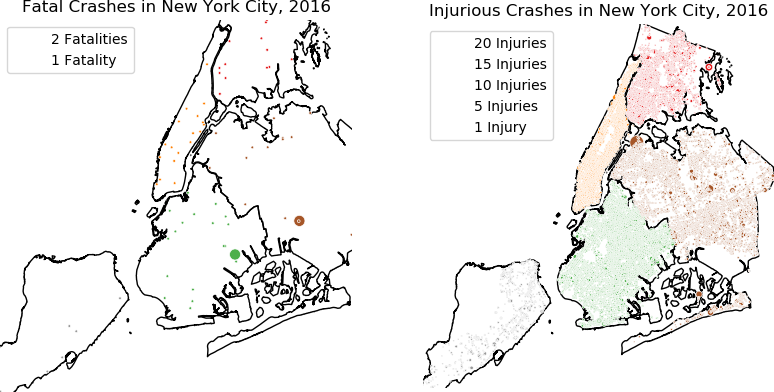
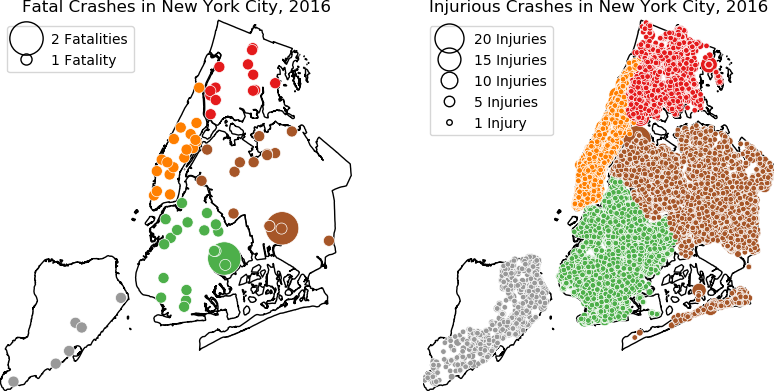
Update example.

diff --git a/docs/examples/nyc-collisions-map.py b/docs/examples/nyc-collisions-map.py
@@ -14,29 +14,31 @@ proj = projection=gcrs.AlbersEqualArea(central_latitude=40.7128, central_longitu
 ax1 = plt.subplot(121, projection=proj)
 ax2 = plt.subplot(122, projection=proj)
 
-gplt.polyplot(nyc_boroughs, ax=ax1, projection=proj)
-gplt.pointplot(
-    nyc_fatal_collisions,
+ax1 = gplt.pointplot(
+    nyc_fatal_collisions, projection=proj,
     hue='BOROUGH', cmap='Set1',
     edgecolor='white', linewidth=0.5,
-    scale='NUMBER OF PERSONS KILLED', limits=(2, 8),
-    legend=True, legend_var='scale', legend_kwargs={'loc': 'upper left'},
+    scale='NUMBER OF PERSONS KILLED', limits=(8, 24),
+    legend=True, legend_var='scale',
+    legend_kwargs={'loc': 'upper left', 'markeredgecolor': 'black'},
     legend_values=[2, 1], legend_labels=['2 Fatalities', '1 Fatality'],
     ax=ax1
 )
+gplt.polyplot(nyc_boroughs, ax=ax1)
 ax1.set_title("Fatal Crashes in New York City, 2016")
 
-gplt.polyplot(nyc_boroughs, ax=ax2, projection=proj)
 gplt.pointplot(
-    nyc_injurious_collisions,
+    nyc_injurious_collisions, projection=proj,
     hue='BOROUGH', cmap='Set1',
     edgecolor='white', linewidth=0.5,
-    scale='NUMBER OF PERSONS INJURED', limits=(1, 10),
-    legend=True, legend_var='scale', legend_kwargs={'loc': 'upper left'},
+    scale='NUMBER OF PERSONS INJURED', limits=(4, 20),
+    legend=True, legend_var='scale',
+    legend_kwargs={'loc': 'upper left', 'markeredgecolor': 'black'},
     legend_values=[20, 15, 10, 5, 1],
     legend_labels=['20 Injuries', '15 Injuries', '10 Injuries', '5 Injuries', '1 Injury'],
     ax=ax2
 )
+gplt.polyplot(nyc_boroughs, ax=ax2, projection=proj)
 ax2.set_title("Injurious Crashes in New York City, 2016")
 
 plt.savefig("nyc-collisions-map.png", bbox_inches='tight', pad_inches=0)

diff --git a/geoplot/geoplot.py b/geoplot/geoplot.py
@@ -349,13 +349,10 @@ class LegendMixin:
 
             markersizes = [self.dscale(d) * scale_multiplier for d in legend_values]
 
-            # If the user provides a markeredgecolor in legend_kwargs, use that. Otherwise,
-            # if they provide an edgecolor in kwargs, reuse that. Otherwise, default to a
-            # steelblue or black markeredgecolor, depending on whether hue is defined.
+            # If the user provides a markeredgecolor in legend_kwargs, use that. Otherwise, default
+            # to a steelblue or black markeredgecolor, depending on whether hue is defined.
             if 'markeredgecolor' in legend_marker_kwargs:
                 markeredgecolor = legend_marker_kwargs.pop('markeredgecolor')
-            elif 'edgecolor' in self.kwargs:
-                markeredgecolor = self.kwargs.get('edgecolor')
             elif self.hue is None:
                 markeredgecolor = 'steelblue'
             else:
